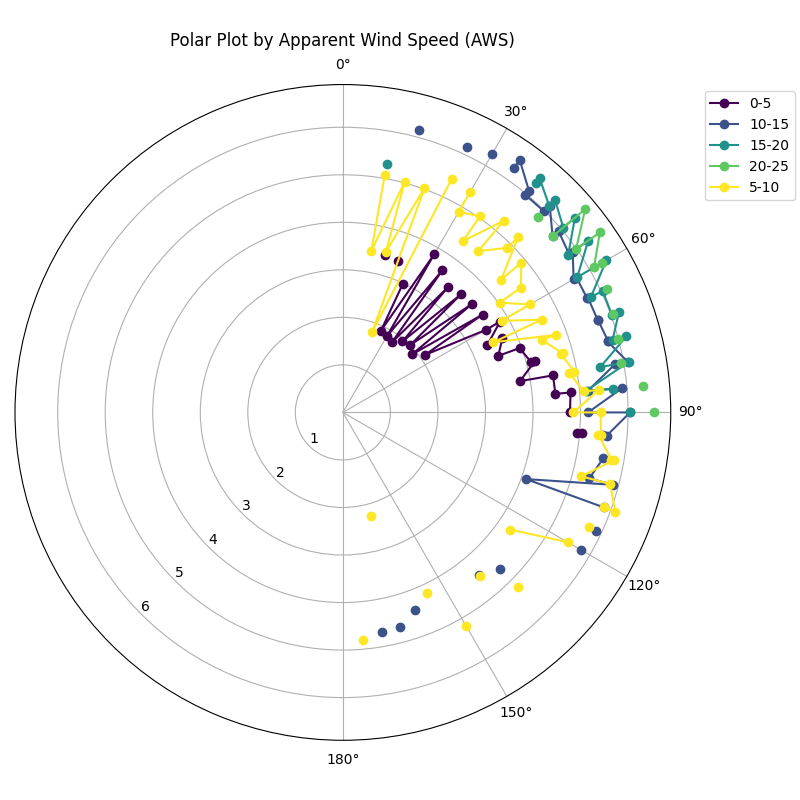
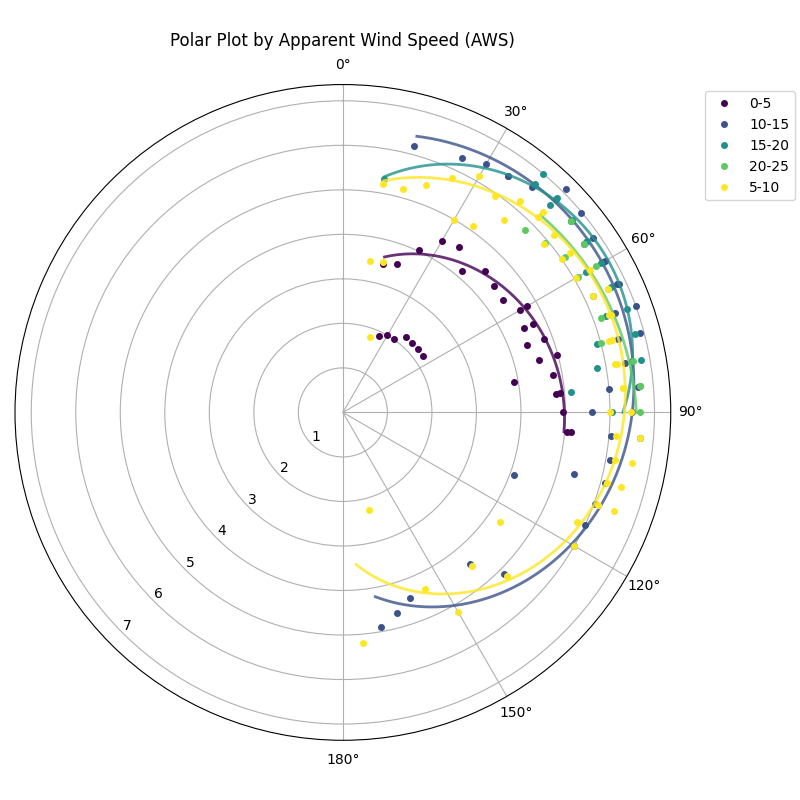
clean up polar diagram, add smooth lines.

diff --git a/analysis/plot_polar.py b/analysis/plot_polar.py
@@ -51,9 +51,71 @@ def plot_by_aws(df, outfile):
     colors = plt.cm.viridis(np.linspace(0, 1, len(aws_bins)))
     for aws_bin, color in zip(aws_bins, colors):
         group = df[df['aws_bin'] == aws_bin]
-        angles = np.radians(group['twa_bin'])
-        speeds = group['mean']
-        ax.plot(angles, speeds, marker='o', label=str(aws_bin), color=color)
+        # Remove rows with NaN values for interpolation
+        group = group.dropna(subset=['twa_bin', 'mean'])
+        if len(group) < 2:
+            continue
+            
+        angles = np.radians(group['twa_bin'].values)
+        speeds = group['max'].values  # Use max speeds for optimistic polar
+        
+        # Sort by angle for proper interpolation
+        sort_idx = np.argsort(angles)
+        angles_sorted = angles[sort_idx]
+        speeds_sorted = speeds[sort_idx]
+        
+        # Create smooth interpolation that follows higher speeds
+        if len(angles_sorted) >= 3:
+            # Create finer angle grid for smooth interpolation
+            angle_fine = np.linspace(angles_sorted.min(), angles_sorted.max(), 100)
+            
+            # For each angle bin, find the higher speed cluster
+            # Use a simple approach: take the upper quartile of speeds for each angle
+            filtered_angles = []
+            filtered_speeds = []
+            
+            for angle in np.unique(angles_sorted):
+                # Find all speeds for this angle
+                angle_mask = angles_sorted == angle
+                angle_speeds = speeds_sorted[angle_mask]
+                
+                if len(angle_speeds) > 0:
+                    # Use the higher speeds (upper 50% or just the max if few points)
+                    if len(angle_speeds) >= 4:
+                        threshold = np.percentile(angle_speeds, 50)  # Use upper half
+                    else:
+                        threshold = np.percentile(angle_speeds, 75)  # Use upper quarter
+                    
+                    # Take the best speeds for this angle
+                    good_speeds = angle_speeds[angle_speeds >= threshold]
+                    if len(good_speeds) > 0:
+                        filtered_angles.append(angle)
+                        filtered_speeds.append(np.mean(good_speeds))  # Average of the good speeds
+            
+            if len(filtered_angles) >= 3:
+                try:
+                    # Fit a polynomial to the filtered (higher speed) data
+                    degree = min(2, len(filtered_angles)-1)
+                    coeffs = np.polyfit(filtered_angles, filtered_speeds, degree)
+                    speed_fine = np.polyval(coeffs, angle_fine)
+                    # Plot smooth line
+                    ax.plot(angle_fine, speed_fine, color=color, linewidth=2, alpha=0.8)
+                except:
+                    # Fallback to simple linear interpolation
+                    ax.plot(filtered_angles, filtered_speeds, color=color, linewidth=2, alpha=0.8)
+            else:
+                # If not enough filtered points, use original approach
+                try:
+                    degree = min(2, len(angles_sorted)-1)
+                    coeffs = np.polyfit(angles_sorted, speeds_sorted, degree)
+                    speed_fine = np.polyval(coeffs, angle_fine)
+                    ax.plot(angle_fine, speed_fine, color=color, linewidth=2, alpha=0.8)
+                except:
+                    ax.plot(angles_sorted, speeds_sorted, color=color, linewidth=2, alpha=0.8)
+        
+        # Plot original data points only (no straight lines)
+        ax.plot(angles_sorted, speeds_sorted, marker='o', markersize=4, color=color, label=str(aws_bin), linestyle='none')
+    
     ax.set_theta_zero_location('N')
     ax.set_theta_direction(-1)
     ax.set_title("Polar Plot by Apparent Wind Speed (AWS)", va='bottom')
